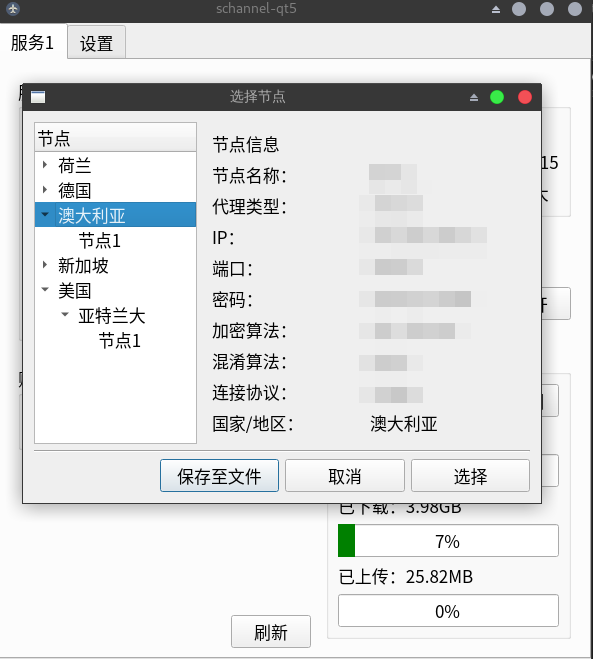
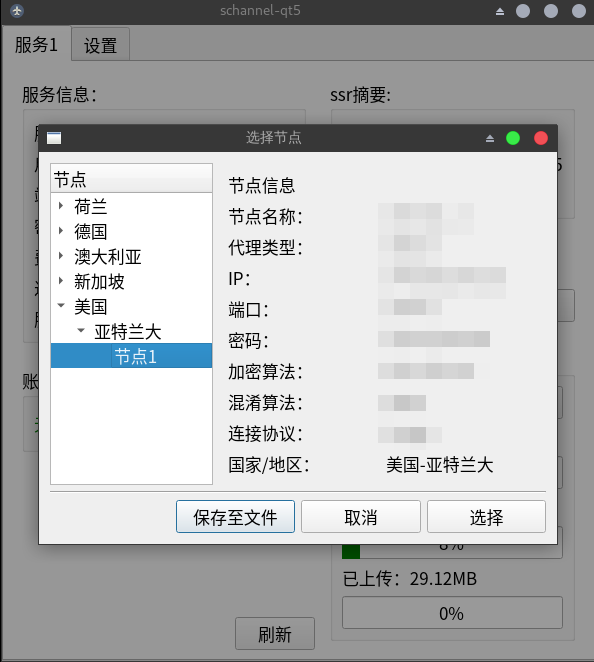
add the translucent mask effect when showing modal dialogs

diff --git a/widgets/shade_widget.go b/widgets/shade_widget.go
@@ -1,0 +1,25 @@
+package widgets
+
+import (
+	"github.com/therecipe/qt/core"
+	"github.com/therecipe/qt/widgets"
+)
+
+// ShadeWidget 半透明遮罩层
+type ShadeWidget struct {
+	widgets.QWidget
+}
+
+// NewShadeWidget2 返回parent的遮罩，将会遮住parent，Close后资源自动释放
+func NewShadeWidget2(parent *widgets.QWidget) *ShadeWidget {
+	shade := NewShadeWidget(parent, 0)
+	// 子控件设置Qt::WA_StyledBackground后才可设置背景
+	shade.SetAttribute(core.Qt__WA_StyledBackground, true)
+	shade.SetAttribute(core.Qt__WA_DeleteOnClose, true)
+	// alpha max is 255, so 40% is 102
+	shade.SetStyleSheet("background-color:rgba(0,0,0,102);")
+	shade.SetWindowFlags(core.Qt__FramelessWindowHint)
+	shade.SetGeometry2(0, 0, shade.ParentWidget().Width(), shade.ParentWidget().Height())
+
+	return shade
+}

diff --git a/widgets/ssr_switch_panel.go b/widgets/ssr_switch_panel.go
@@ -110,11 +110,14 @@ func (s *SSRSwitchPanel) InitUI() {
 	s.selectNodeButton = widgets.NewQPushButton2("选择节点", nil)
 	s.selectNodeButton.ConnectClicked(func(_ bool) {
 		dialog := NewNodeSelectDialog2(s.currentNode, s.nodes)
+		shade := NewShadeWidget2(s.NativeParentWidget())
+		shade.Show()
 		if dialog.Exec() == int(widgets.QDialog__Accepted) {
 			s.currentNode = dialog.CurrentNode
 			s.nodeInfo.DataRefresh(s.currentNode)
 		}
-		// goqt无法自动释放QDialog
+		shade.Close()
+		// goqt无法自动释放QWidget
 		// 且此处不适合DeleteOnClose，所以需要手动调用DestroyNodeSelectDialog
 		dialog.DestroyNodeSelectDialog()
 	})

diff --git a/widgets/invoice_panel.go b/widgets/invoice_panel.go
@@ -60,8 +60,12 @@ func NewInvoicePanelWithData(bridge UserDataBridge) *InvoicePanel {
 
 // showInvoiceDialog 显示详细信息对话框
 func (panel *InvoicePanel) showInvoiceDialog(_ bool) {
+	shade := NewShadeWidget2(panel.NativeParentWidget())
 	dialog := NewInvoiceDialogWithData(panel.dataBridge, panel.invoices)
+	// 显示遮罩
+	shade.Show()
 	dialog.Exec()
+	shade.Close()
 }
 
 // setInvoiceStatus 设置invoice的显示信息和颜色
